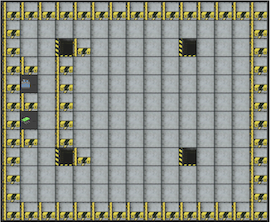
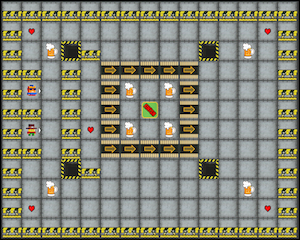
all pics updated

diff --git a/cucumber-test/src/main/java/controller/GameLaunch.java b/cucumber-test/src/main/java/controller/GameLaunch.java
@@ -6,6 +6,7 @@ import java.util.ArrayList;
 
 import model.board.BlankBoard;
 import model.board.Board;
+import model.board.EasyBoard;
 import model.board.FinalBoard;
 import model.board.MediumBoard;
 import model.card.Card;
@@ -88,7 +89,7 @@ public class GameLaunch implements IEventHandler {
 	
 	public static void setBoard(int i) {
 		if (i == 1) {
-			board = new BlankBoard();
+			board = new EasyBoard();
 		}
 		else if (i == 2) {
 			board = new MediumBoard();

diff --git a/cucumber-test/src/main/java/model/tile/TeleporterSpot.java b/cucumber-test/src/main/java/model/tile/TeleporterSpot.java
@@ -8,7 +8,7 @@ import utilities.Position;
 
 public class TeleporterSpot extends Tile {
 	
-private URL tileImage = this.getClass().getClassLoader().getResource("view/maps/conveyorbelt.png");
+private URL tileImage = this.getClass().getClassLoader().getResource("view/maps/teleporter_out.png");
 
 	
 	@Override

diff --git a/cucumber-test/src/main/java/model/tile/Teleporter.java b/cucumber-test/src/main/java/model/tile/Teleporter.java
@@ -8,7 +8,7 @@ import utilities.Position;
 
 public class Teleporter extends Tile {
 	
-private URL tileImage = this.getClass().getClassLoader().getResource("view/maps/conveyorbelt.png");
+private URL tileImage = this.getClass().getClassLoader().getResource("view/maps/teleporter_in.png");
 
 	
 	@Override

diff --git a/cucumber-test/src/main/java/view/controlView.java b/cucumber-test/src/main/java/view/controlView.java
@@ -1,3 +1,5 @@
+
+
 package view;
 
 import java.awt.*;
